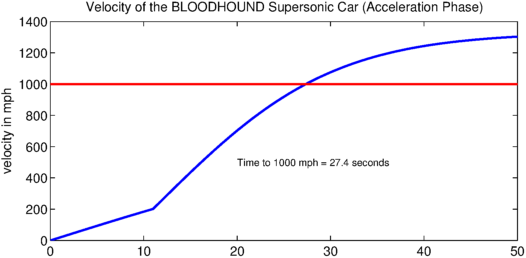
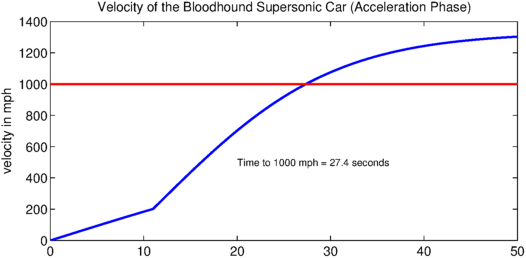
Rerunning ode/Bloodhound.

Changed region(s): [[0.1521, 0.0, 0.943, 0.062]]

diff --git a/examples/ode/Bloodhound.html b/examples/ode/Bloodhound.html
@@ -1,7 +1,7 @@
 <!DOCTYPE html>
 <html>
   <head>
-    <title>BLOODHOUND supersonic car &raquo; Chebfun</title>
+    <title>Bloodhound supersonic car &raquo; Chebfun</title>
     <meta name="viewport" content="width=device-width, initial-scale=1.0">
     <meta charset="utf-8">
     <link rel="shortcut icon" href="favicon.ico" /> 
@@ -51,14 +51,14 @@
 <div class="page-wrapper">
 
     <div class='page-header'>
-<h1>BLOODHOUND supersonic car</h1>
+<h1>Bloodhound supersonic car</h1>
 <h2>Tanya Morton, January 2013<span><a href='/examples/ode/Bloodhound.m'>download</a><span class='sep-sm'>&middot;</span><a href='//github.com/chebfun/examples/blob/master/ode/Bloodhound.m'>view on Github</a></span></h2>
 </div>
 
     <div class="container">
 <div class="row main">
 <div id='content' class="col-sm-12 example" role="main">
-<p>This script solves the equation of motion for the acceleration phase of the BLOODHOUND supersonic car using Chebfun.</p>
+<p>This script solves the equation of motion for the acceleration phase of the Bloodhound supersonic car using Chebfun.</p>
 <p>The car is powered by a jet engine and a rocket and aims to reach a speed in excess of 1000 mph. More details on the project can be found at the website <a href="http://www.bloodhoundssc.com/">http://www.bloodhoundssc.com/</a>.</p>
 <p>Mathematically, the problem takes the form of an initial value ODE</p>
 <p>$$ a(t)v' + b(t)v + cv^2 = d(t), \qquad t \in [0,50],~~ v(0) = 0 . $$</p>
@@ -124,7 +124,7 @@ hold on
 plot([0 50],[1000 1000],'r', 'LineWidth', 2); % 1000 mph line
 hold on;
 text(20, 500, ['Time to 1000 mph = ' num2str(t1000, 3) ' seconds']);
-title('Velocity of the BLOODHOUND Supersonic Car (Acceleration Phase)')
+title('Velocity of the Bloodhound Supersonic Car (Acceleration Phase)')
 ylabel('velocity in mph')</pre>
 
 <p><img src="img/Bloodhound_01.png" class="figure" alt=""></p>

diff --git a/examples/ode/img/Bloodhound.html b/examples/ode/img/Bloodhound.html
@@ -1,11 +1,11 @@
 ---
-title: "BLOODHOUND supersonic car"
+title: "Bloodhound supersonic car"
 layout: example
 authordate: "Tanya Morton, January 2013"
 meta: "(Chebfun example ode/Bloodhound.m) [Tags: #nonlinearODE, #piecewise]"
 ---
 
-This script solves the equation of motion for the acceleration phase of the BLOODHOUND supersonic car using Chebfun.
+This script solves the equation of motion for the acceleration phase of the Bloodhound supersonic car using Chebfun.
 
 The car is powered by a jet engine and a rocket and aims to reach a speed in excess of 1000 mph. More details on the project can be found at the website <http://www.bloodhoundssc.com/>.
 
@@ -67,7 +67,7 @@ hold on
 plot([0 50],[1000 1000],'r', 'LineWidth', 2); % 1000 mph line
 hold on;
 text(20, 500, ['Time to 1000 mph = ' num2str(t1000, 3) ' seconds']);
-title('Velocity of the BLOODHOUND Supersonic Car (Acceleration Phase)')
+title('Velocity of the Bloodhound Supersonic Car (Acceleration Phase)')
 ylabel('velocity in mph')</pre><img src="img/Bloodhound_01.png" class="figure" alt="">
 
 Integrate to find the distance.

diff --git a/examples/ode/index.html b/examples/ode/index.html
@@ -107,7 +107,7 @@
     <li>
         <a href='/examples/ode/Bloodhound.html'>
             <div class='thumbwrapper'><img src='/examples/ode/img/Bloodhound_01.png' /></div>
-            <h3>BLOODHOUND supersonic car</h3>
+            <h3>Bloodhound supersonic car</h3>
             <p>Tanya Morton, January 2013
                 <span class='tags'><span href='#' class='tag'>#nonlinearode</span>, <span href='#' class='tag'>#piecewise</span></span>
             </p>

diff --git a/examples/ode/Bloodhound.m b/examples/ode/Bloodhound.m
@@ -1,4 +1,4 @@
-%% BLOODHOUND supersonic car
+%% Bloodhound supersonic car
 % Tanya Morton, January 2013
 
 %%
@@ -7,7 +7,7 @@
 
 %%
 % This script solves the equation of motion for the acceleration phase of
-% the BLOODHOUND supersonic car using Chebfun.
+% the Bloodhound supersonic car using Chebfun.
 %
 % The car is powered by a jet engine and a rocket and aims to reach a speed
 % in excess of 1000 mph. More details on the project can be found at the
@@ -103,7 +103,7 @@ hold on
 plot([0 50],[1000 1000],'r', 'LineWidth', 2); % 1000 mph line
 hold on; 
 text(20, 500, ['Time to 1000 mph = ' num2str(t1000, 3) ' seconds']);
-title('Velocity of the BLOODHOUND Supersonic Car (Acceleration Phase)')
+title('Velocity of the Bloodhound Supersonic Car (Acceleration Phase)')
 ylabel('velocity in mph')
 
 %%
